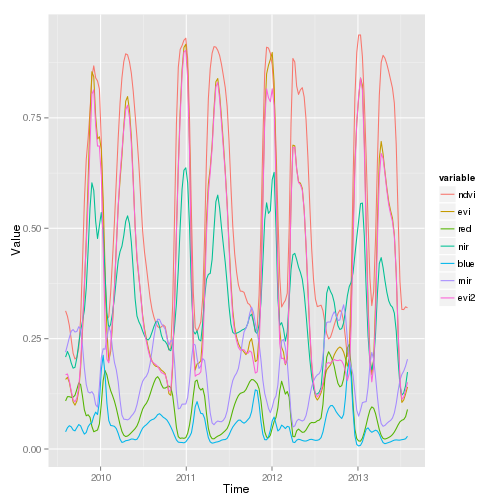
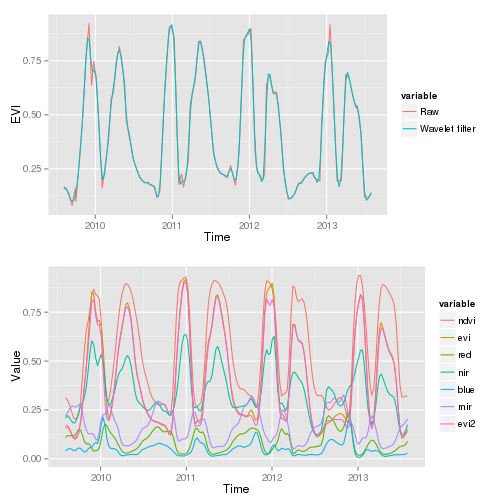
Update documentation

diff --git a/README.md b/README.md
@@ -40,7 +40,7 @@ print(alig)
 
 ```
 ## Time-Weighted DTW alignment object
-## Alignments:
+## Number of alignments: 4 
 ##   query       from         to distance normalizedDistance
 ## 1     1 2011-10-04 2012-01-28 3.956483         0.03140066
 ## 2     1 2012-10-06 2013-02-15 4.008838         0.03181617
@@ -140,16 +140,11 @@ df2 = melt(data.frame(Time=index(sy), sy), id="Time")
 gp2 = ggplot(df2, aes(x=Time, y=value, group=variable, colour=variable)) +
    		geom_line() + 
   		ylab("Value") 
-gp2
-```
 
-![plot of chunk define-demo-plot-smoothing](figure/define-demo-plot-smoothing-1.png) 
-
-```r
 grid.arrange(gp1,gp2,nrow=2)
 ```
 
-![plot of chunk define-demo-plot-smoothing](figure/define-demo-plot-smoothing-2.png) 
+![plot of chunk define-demo-plot-smoothing](figure/define-demo-plot-smoothing-1.png) 
 
 
 
